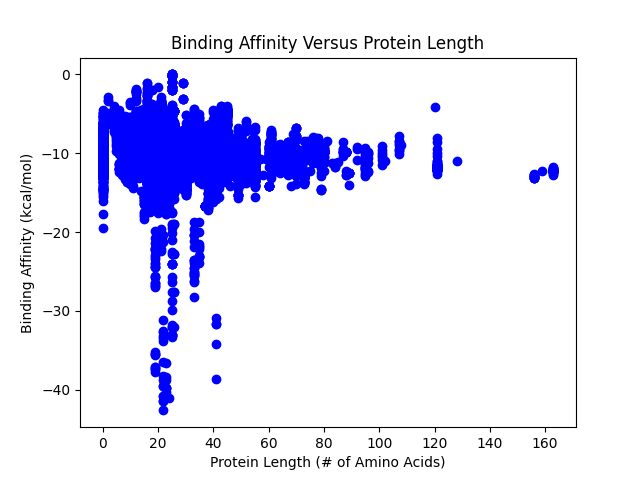
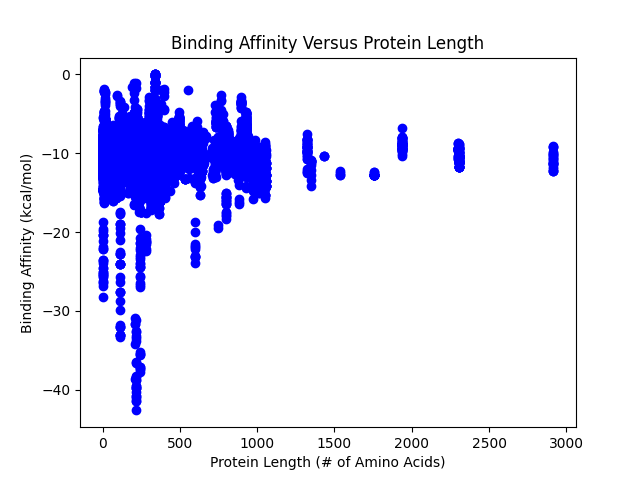
FIXED GRAPHS

diff --git a/Datasets/Protein-DNA Complex/plotEnergyvsLength.py b/Datasets/Protein-DNA Complex/plotEnergyvsLength.py
@@ -19,6 +19,6 @@ with open('pronit.csv', newline='') as csvfile:
 plt.title("Binding Affinity Versus Protein Length")
 plt.xlabel("Protein Length (# of Amino Acids)")
 plt.ylabel("Binding Affinity (kcal/mol)")
-plt.plot(dnaSequences, energies, "ob")
+plt.plot(proteinSequences, energies, "ob")
 plt.show()
 
